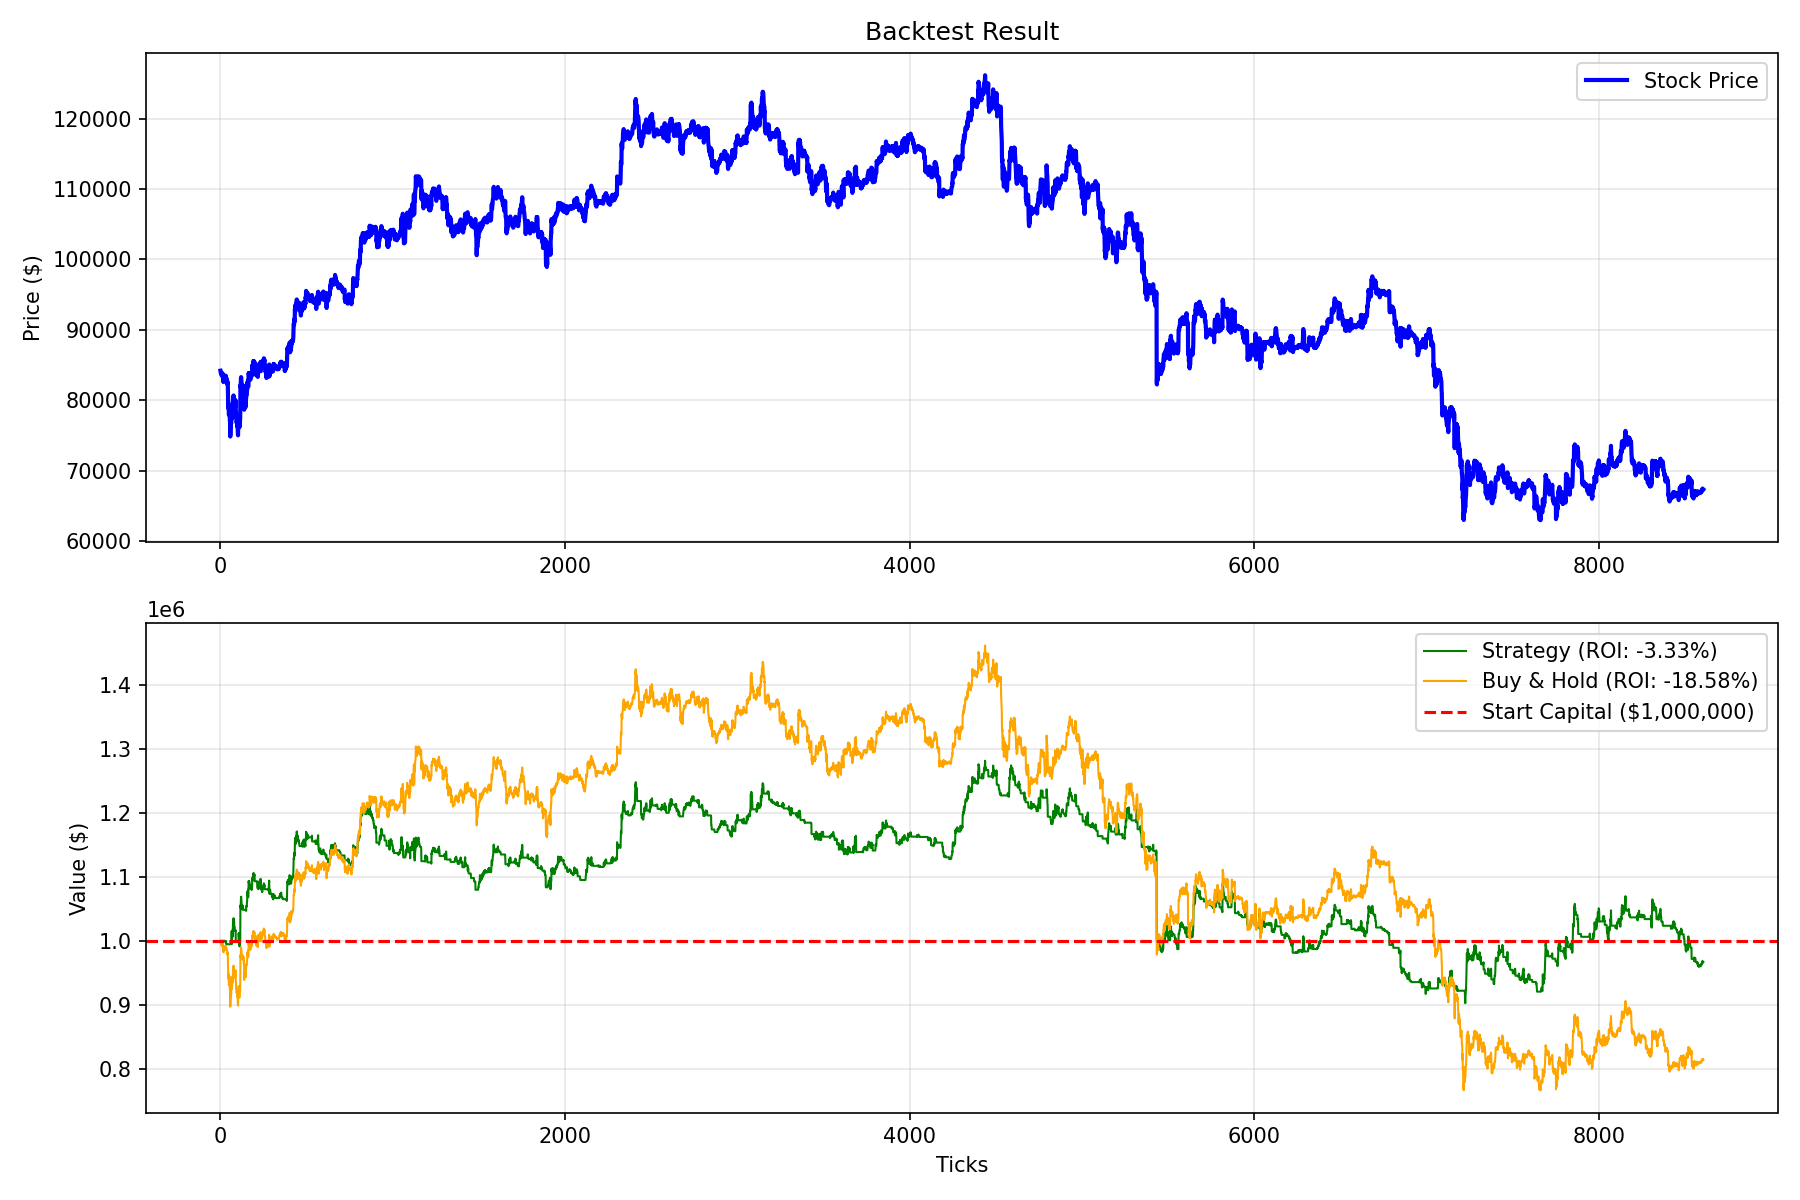
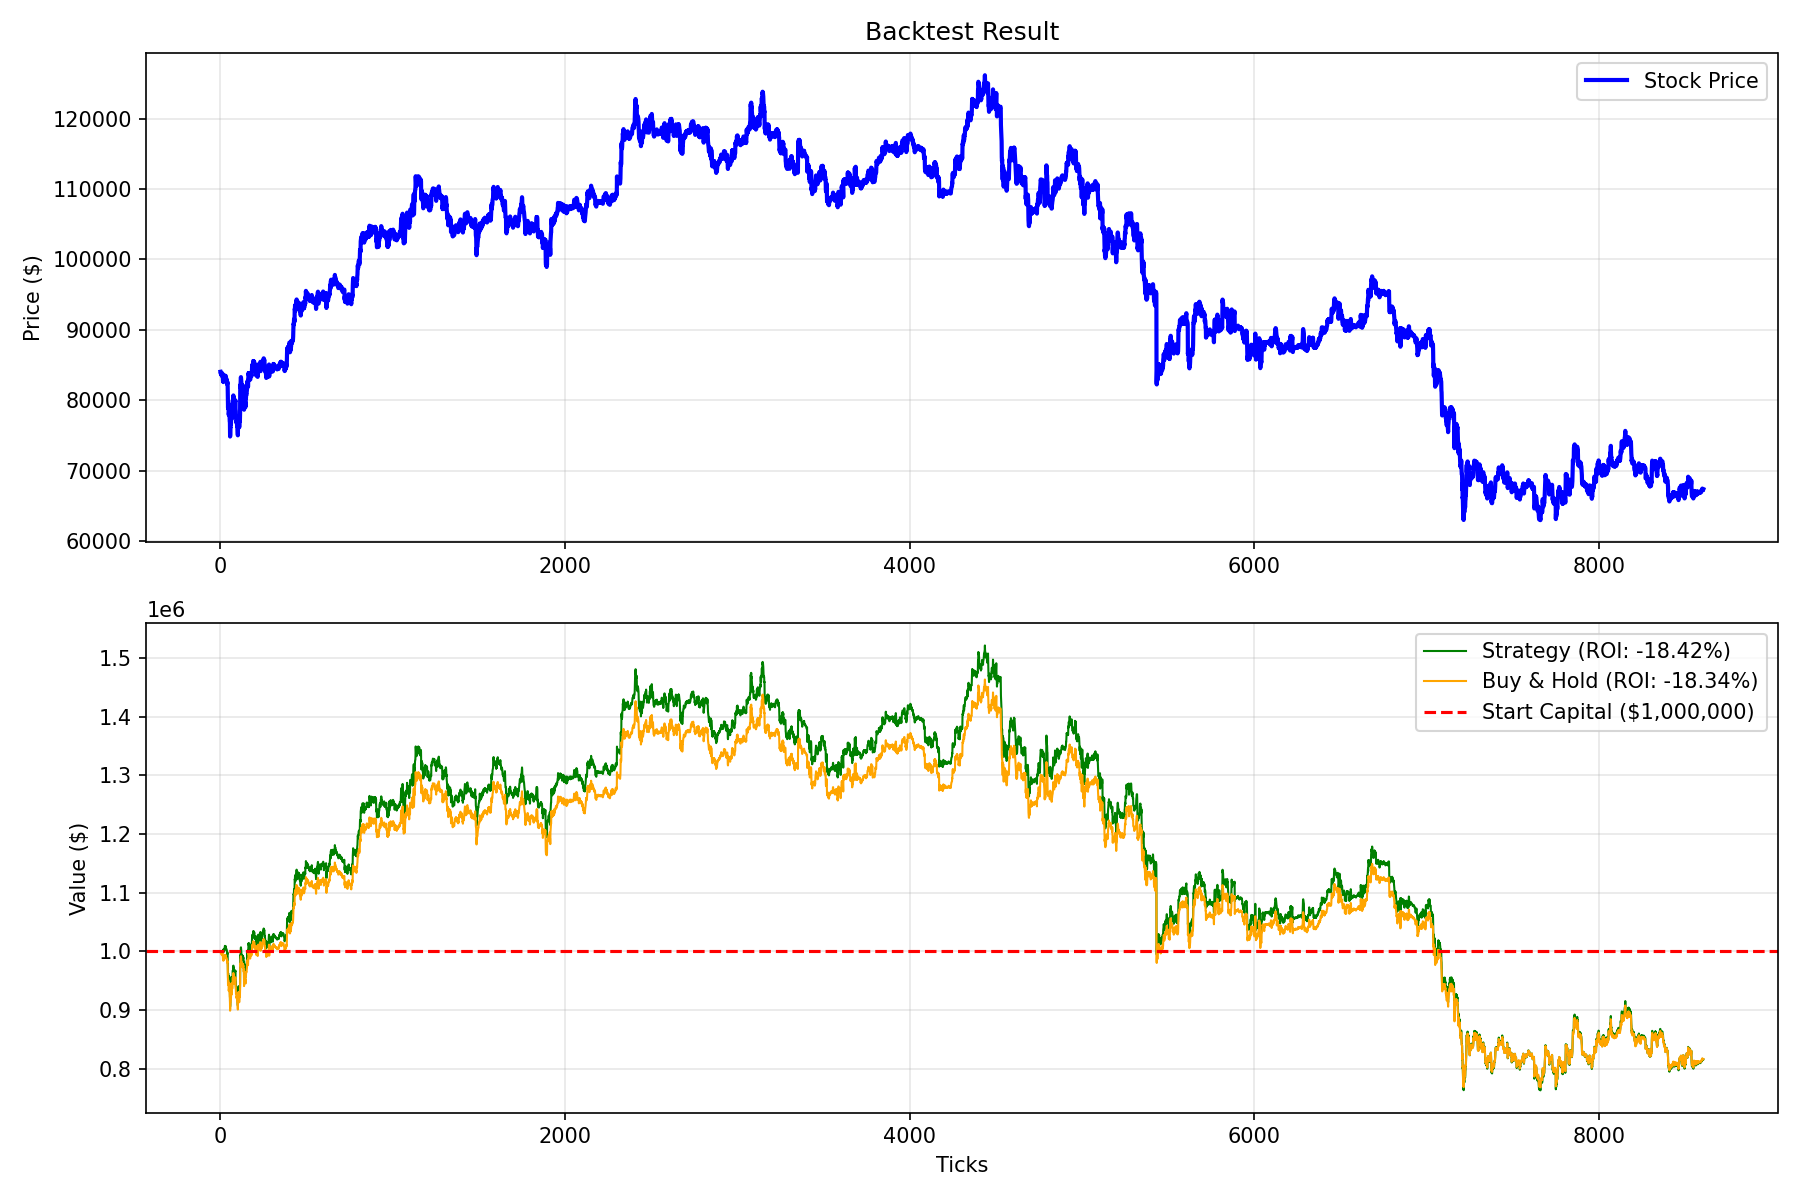
implemented a config file

diff --git a/MVP/backtest.py b/MVP/backtest.py
@@ -3,6 +3,7 @@ import numpy as np
 import matplotlib.pyplot as plt
 from portfolio import portfolio
 
+
 class backtest:
     # This class is responsible for running the backtest. It takes the charts file, the strategy, and the initial capital as input. It loads the data, runs the backtest by iterating through each day and executing trades based on the strategy's signals, and finally shows the results of the backtest.
     def __init__(self, charts_file, strategy, initial_capital):
@@ -56,16 +57,19 @@ class backtest:
         
         print("="*60)
 
+    # The calc_bandh_roi_benchmark method calculates the return on investment (ROI) of a buy-and-hold strategy as a benchmark for comparison. It calculates how many shares could be bought with the initial capital at the first price, and then calculates the value of those shares at the last price. It returns the ROI as a percentage.
     def calc_bandh_roi_benchmark(self):
         bh_shares_bought = int(self.initial_capital / self.charts[0])
         bh_rest_cash = self.initial_capital - bh_shares_bought * self.charts[0]
         return (bh_rest_cash + bh_shares_bought * self.charts[-1] - self.initial_capital) / self.initial_capital * 100
     
+    # The calc_bandh_history method calculates the total value of a buy-and-hold strategy over time. It calculates how many shares could be bought with the initial capital at the first price, and then calculates the value of those shares at each price in the charts data. It returns a list of the total value of the buy-and-hold strategy at each time point.
     def calc_bandh_history(self):
         bh_shares = int(self.initial_capital / self.charts[0])
         bh_cash = self.initial_capital - bh_shares * self.charts[0]
         return [bh_cash + bh_shares * price for price in self.charts]
 
+    # The show_results method calculates and displays the final results of the backtest, including the final capital, profit/loss, ROI, total trades, win rate, max drawdown, Sharpe Ratio, and a comparison to a buy-and-hold benchmark. It also generates two graphs: one showing the stock price over time and another showing the portfolio value over time compared to the buy-and-hold strategy. The results are printed in a formatted manner, and the graphs are saved as an image file.
     def show_results(self):
         final_value = self.total_history[-1]
         final_chart = self.charts[-1]

diff --git a/MVP/portfolio.py b/MVP/portfolio.py
@@ -1,5 +1,7 @@
 import pandas as pd
 import numpy as np
+from config import CONFIG
+
 
 class portfolio:
 
@@ -60,6 +62,7 @@ class portfolio:
     def roi(self, current_price):
         return (self.profit_loss(current_price) / self.initial_capital) * 100
 
+    # The max_dd method calculates the maximum drowdown by identifying the lowest value after every peak.
     def max_dd(self, total_history):
         peak = total_history[0]
         max_drawdown = 0
@@ -75,17 +78,28 @@ class portfolio:
 
         return max_drawdown * 100
     
+    # The sharpe_ratio method calculates the Sharpe Ratio of the portfolio by first calculating the returns from the total history, then calculating the mean and standard deviation of the returns.
+    #  It annualizes the Sharpe Ratio based on the number of trading periods per year defined in the CONFIG. If the standard deviation of returns is zero, it returns a Sharpe Ratio of 0 to avoid division by zero.
     def sharpe_ratio(self, total_history):
         returns = pd.Series(total_history).pct_change().dropna()
     
         if returns.std() == 0:
             return 0
     
-        annualization = np.sqrt(252 * 390)
+        # Annualisierung from Config
+        periods_per_year = (
+            CONFIG["metrics"]["trading_days_per_year"] *
+            CONFIG["metrics"]["hours_per_day"] /
+            CONFIG["metrics"]["interval_hours"]
+        )
+
+        annualization = np.sqrt(periods_per_year)
     
         sharpe = (returns.mean() / returns.std()) * annualization
         return sharpe
-    
+    # The calculate_win_rate method calculates the win rate of the trades by comparing the buy and sell prices. 
+    # It zips the buy and sell history together, checks if each sell price is greater than the corresponding buy price, and calculates the win rate as a percentage.
+    # It also returns the total number of trades. If there are no trades, it returns a win rate of 0 and a total trade count of 0.
     def calculate_win_rate(self):
         trades = zip(self.buy_history, self.sell_history)
         

diff --git a/MVP/main.py b/MVP/main.py
@@ -4,6 +4,7 @@ from load_data import get_yahoo_data
 from pathlib import Path
 from backtest import backtest
 from strategy import mov_avg_strat
+from config import CONFIG
 
 
 def main():
@@ -11,18 +12,30 @@ def main():
     print("BACKTESTER STARTER")
     print("="*60)
 
-    get_yahoo_data(ticker="BTC-USD", period="1y", interval="1h")
+    # Loading data
+    get_yahoo_data(
+        ticker=CONFIG["data"]["ticker"],
+        period=CONFIG["data"]["period"],
+        interval=CONFIG["data"]["interval"]
+    )
 
+    # Initialize strategy
+    strategy = mov_avg_strat(
+        window_size=CONFIG["strategy"]["window_size"],
+        threshold_buy=CONFIG["strategy"]["threshold_buy"],
+        threshold_sell=CONFIG["strategy"]["threshold_sell"]
+    )
 
     # Initialize backtest
     backtest_runner = backtest(
-        charts_file='MVP/data/BTC-USD_live.csv',
-        strategy=mov_avg_strat(window_size=15),
-        initial_capital = 1000000
+        charts_file=f'MVP/data/{CONFIG["data"]["ticker"]}_live.csv',
+        strategy=strategy,
+        initial_capital=CONFIG["backtest"]["initial_capital"]
     )
     
+    # Run backtest
     backtest_runner.load_data()
-    backtest_runner.run_backtest(verbose=False)
+    backtest_runner.run_backtest(verbose=CONFIG["backtest"]["verbose"])
     backtest_runner.show_results()
 
 if __name__ == '__main__':

diff --git a/MVP/strategy.py b/MVP/strategy.py
@@ -1,9 +1,12 @@
 import numpy as np
 
 class mov_avg_strat:
-    def __init__(self, window_size):
+    # Initialising the Strategy
+    def __init__(self, window_size, threshold_buy, threshold_sell):
         self.window = window_size
         self.name = f"Moving Average Strategy (window size: {window_size})"
+        self.threshold_buy = threshold_buy
+        self.threshold_sell = threshold_sell
 
     
     def signal(self, charts, current_index):
@@ -16,9 +19,9 @@ class mov_avg_strat:
         current_price = charts[current_index]
 
         # Generate buy/sell/hold signal based on the current price and the moving average
-        if current_price > avg * 1.001:
+        if current_price > avg * self.threshold_buy:
             return 'buy'
-        elif current_price < avg * 0.999:
+        elif current_price < avg * self.threshold_sell:
             return 'sell'
         else:
             return 'hold'

diff --git a/MVP/config.py b/MVP/config.py
@@ -1,0 +1,21 @@
+CONFIG = {
+    "data": {
+        "ticker": "BTC-USD",            #Type of Stock
+        "period": "1y",                 #Timeframe of Data
+        "interval": "1h"                #Tick-Duration
+    },
+    "backtest": {
+        "initial_capital": 1_000_000,   #Initial Capital
+        "verbose": False                #Extra Console Output every 20 Ticks
+    },
+    "strategy": {
+        "window_size": 15,              #How many past Ticks are taken into account
+        "threshold_buy": 0.0001,        #Buy Signal Brake
+        "threshold_sell": 0.0001        #Sell Signal Brake
+    },
+    "metrics": {
+        "trading_days_per_year": 365,   #Infos regarding the specified Stock
+        "hours_per_day": 24,               
+        "interval_hours": 1                
+    }
+}

diff --git a/README.md b/README.md
@@ -5,7 +5,7 @@ Next To-Dos:
 - (Done) Max Drawdown Metric
 - (Done) Sharp Metric
 - (Done) Trade Win Rate Metric
-- Buy and Hold Benchmark
+- (Done) Buy and Hold Benchmark
 - Config instead of Hardcoding
 - Abstract Base Strategy -> Mov Avg and 2nd Strategy
 - C++ in Berechnungen verwenden
